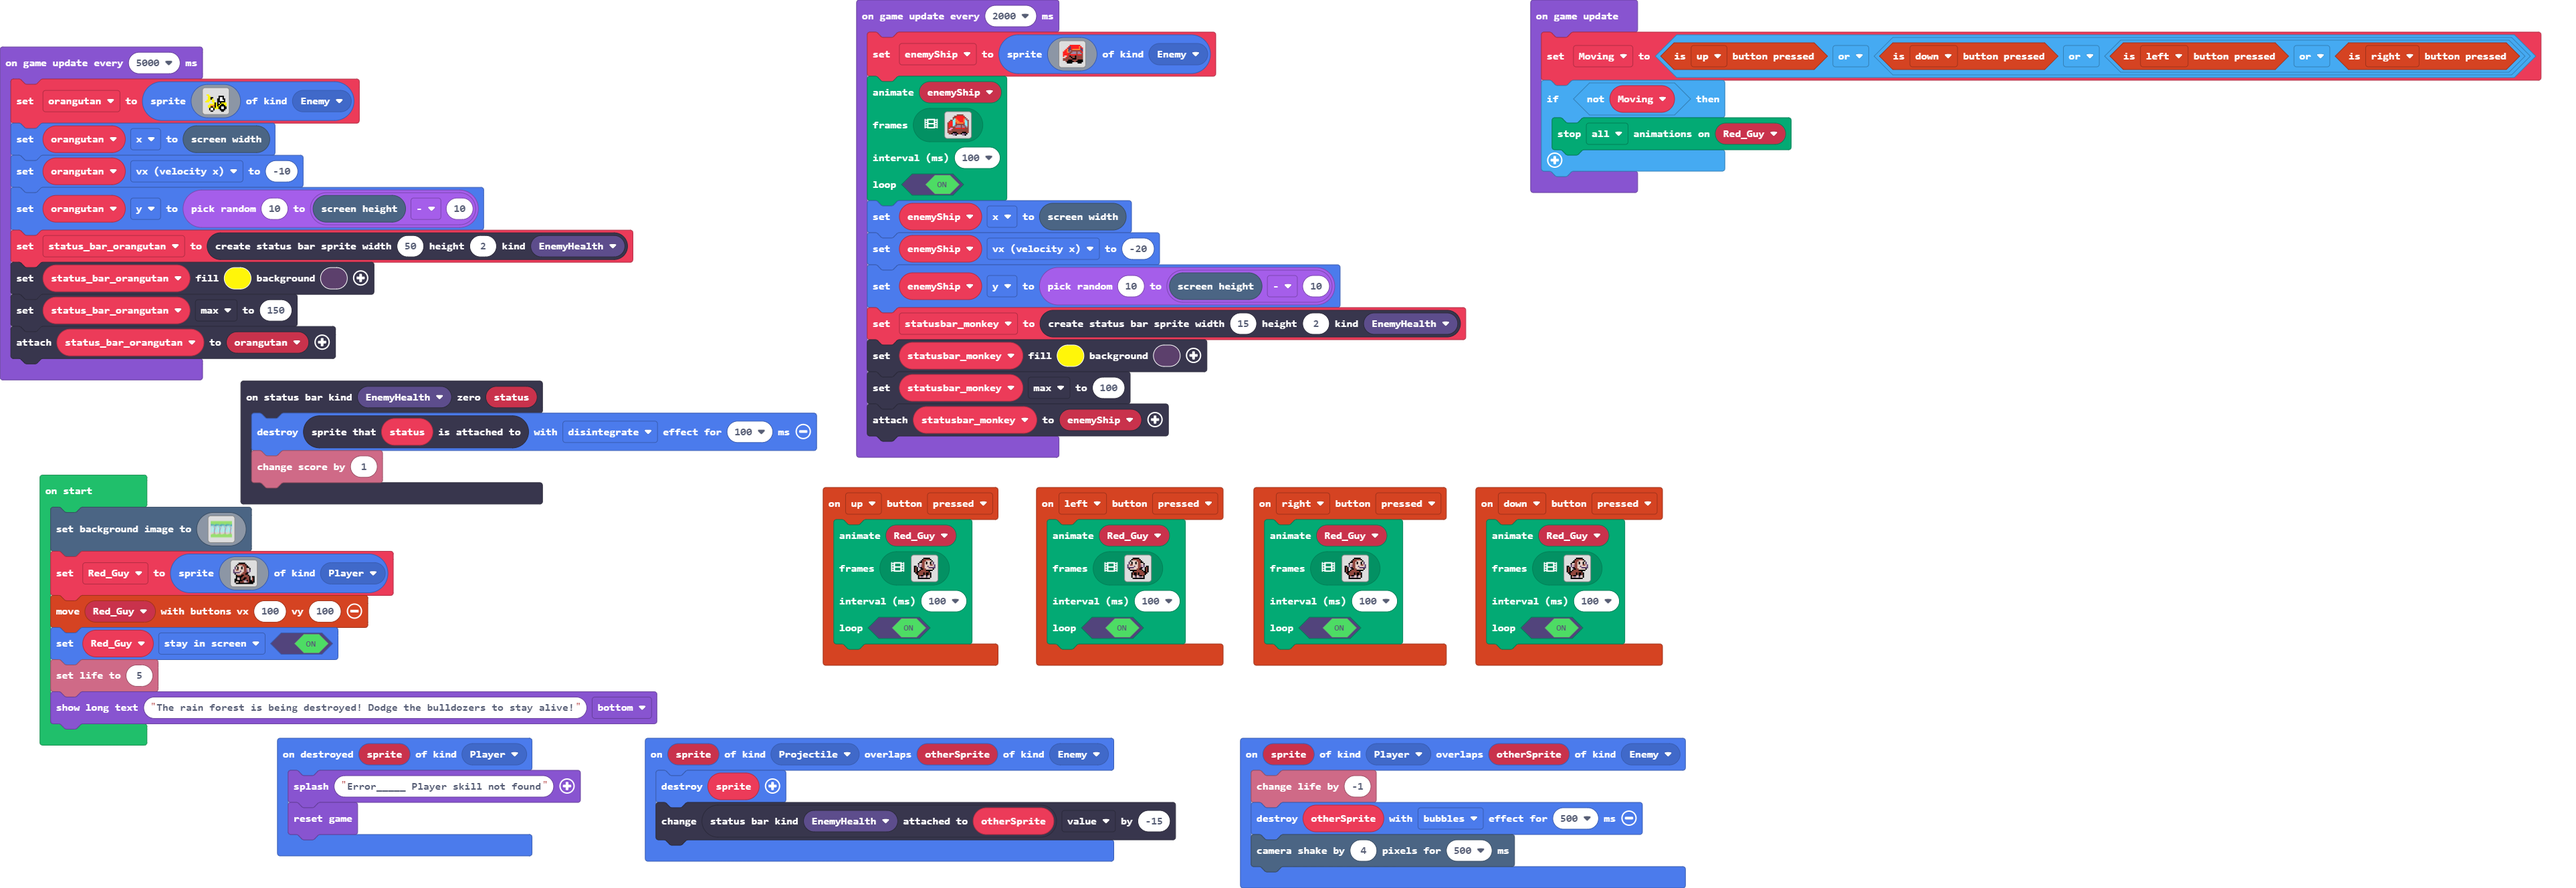
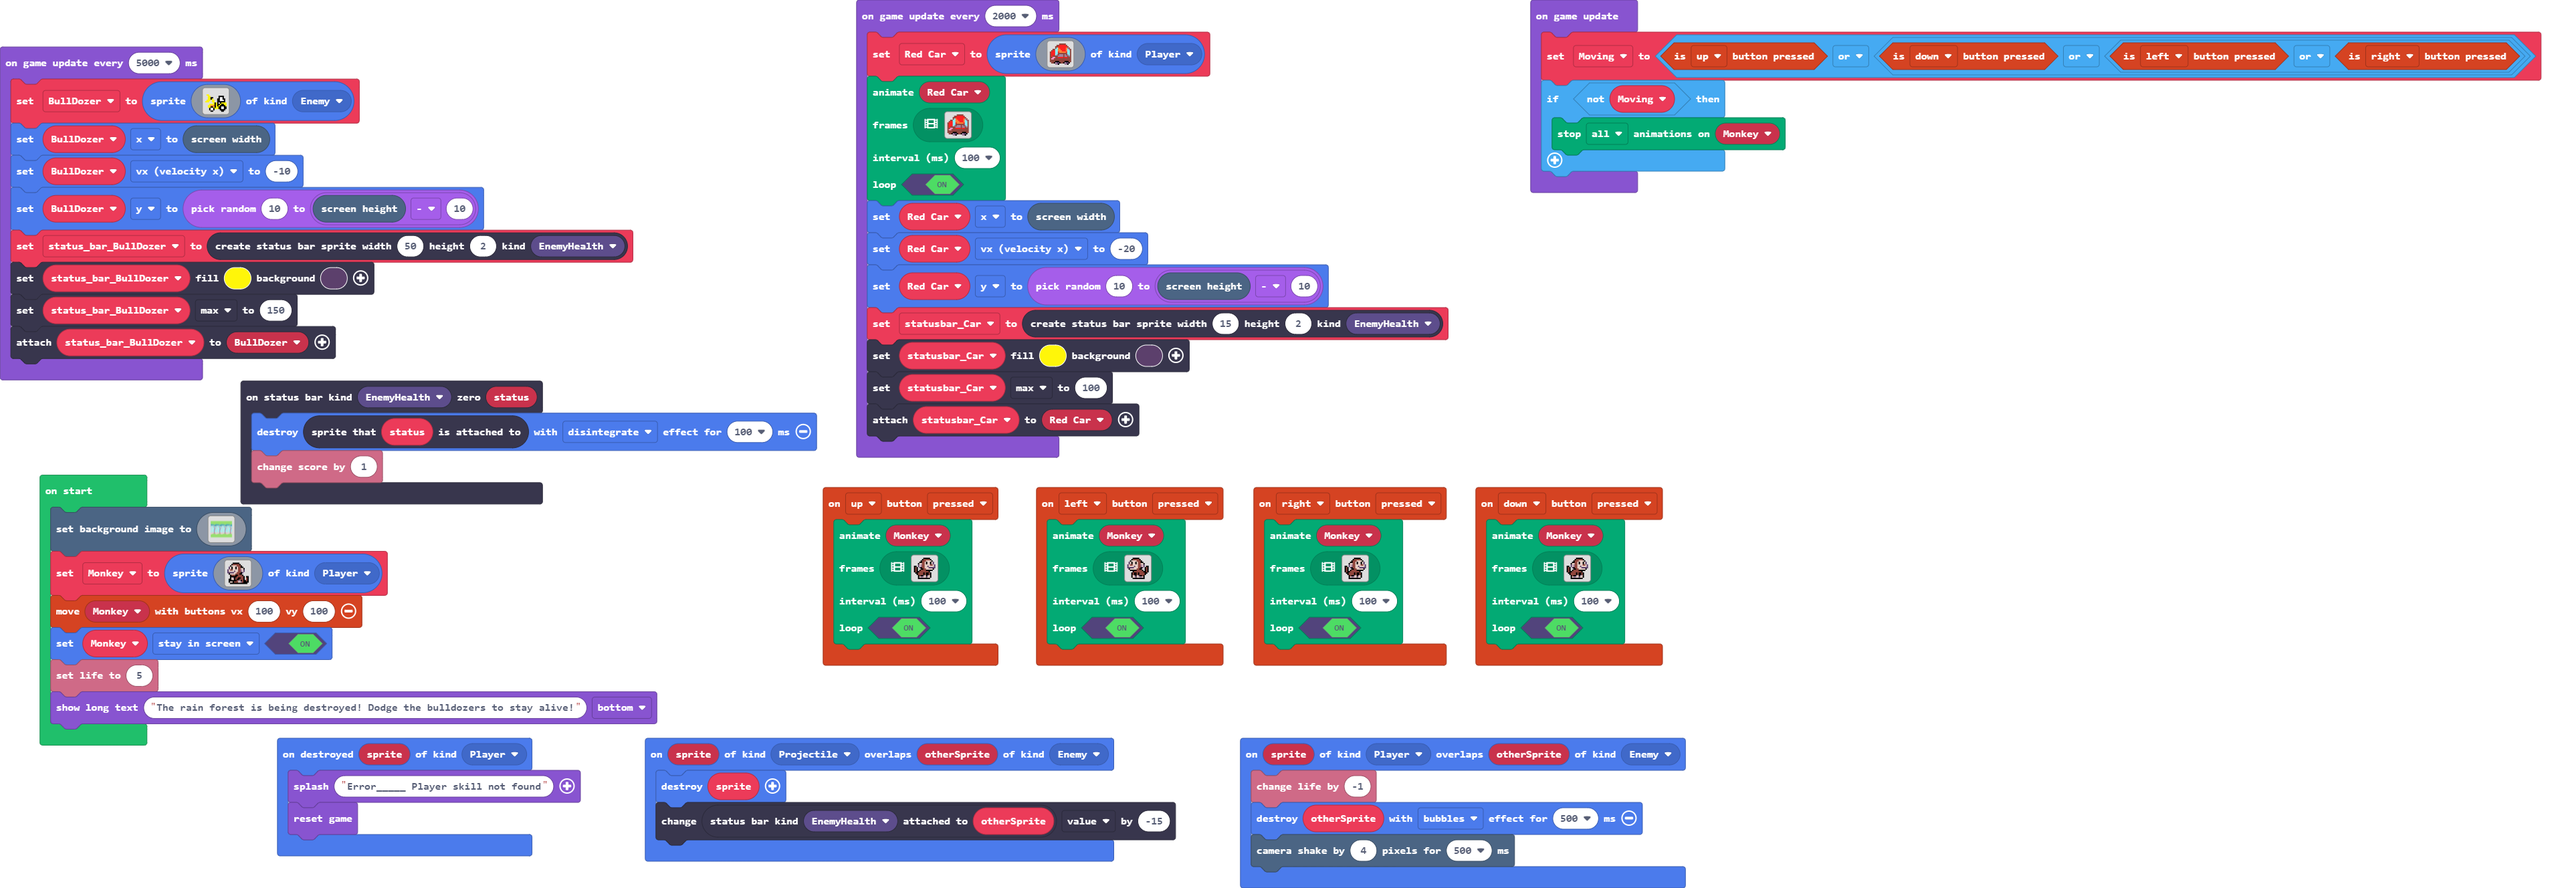
Update main.blocks, main.ts

diff --git a/main.ts b/main.ts
@@ -3,7 +3,7 @@ namespace SpriteKind {
 }
 controller.up.onEvent(ControllerButtonEvent.Pressed, function () {
     animation.runImageAnimation(
-    Red_Guy,
+    Monkey,
     [img`
         . . . . . . . f f f f f . . . . 
         . . . . . . f e e e e e f . . . 
@@ -96,7 +96,7 @@ controller.up.onEvent(ControllerButtonEvent.Pressed, function () {
 })
 controller.left.onEvent(ControllerButtonEvent.Pressed, function () {
     animation.runImageAnimation(
-    Red_Guy,
+    Monkey,
     [img`
         . . . . f f f f f . . . . . . . 
         . . . f e e e e e f . . . . . . 
@@ -193,7 +193,7 @@ statusbars.onZero(StatusBarKind.EnemyHealth, function (status) {
 })
 controller.right.onEvent(ControllerButtonEvent.Pressed, function () {
     animation.runImageAnimation(
-    Red_Guy,
+    Monkey,
     [img`
         . . . . . . . f f f f f . . . . 
         . . . . . . f e e e e e f . . . 
@@ -286,7 +286,7 @@ controller.right.onEvent(ControllerButtonEvent.Pressed, function () {
 })
 controller.down.onEvent(ControllerButtonEvent.Pressed, function () {
     animation.runImageAnimation(
-    Red_Guy,
+    Monkey,
     [img`
         . . . . . . . f f f f f . . . . 
         . . . . . . f e e e e e f . . . 
@@ -390,12 +390,12 @@ sprites.onOverlap(SpriteKind.Player, SpriteKind.Enemy, function (sprite, otherSp
     otherSprite.destroy(effects.bubbles, 500)
     scene.cameraShake(4, 500)
 })
-let statusbar_monkey: StatusBarSprite = null
-let enemyShip: Sprite = null
-let status_bar_orangutan: StatusBarSprite = null
-let orangutan: Sprite = null
+let statusbar_Car: StatusBarSprite = null
+let Red_Car: Sprite = null
+let status_bar_BullDozer: StatusBarSprite = null
+let BullDozer: Sprite = null
 let Moving = false
-let Red_Guy: Sprite = null
+let Monkey: Sprite = null
 scene.setBackgroundImage(img`
     7777777777777777777777777777777777777777777777777777777777777777777777777777777777777777777777777777777777777777777777777777777777777777777777777777777777777777
     7777777777777777777777777777777777777777777777777777777777777777777777777777777777777777777777777777777777777777777777777777777777777777777777777777777777777777
@@ -518,7 +518,7 @@ scene.setBackgroundImage(img`
     7777777777777777777777777777777777777777777777777777777777777777777777777777777777777777777777777777777777777777777777777777777777777777777777777777777777777777
     7777777777777777777777777777777777777777777777777777777777777777777777777777777777777777777777777777777777777777777777777777777777777777777777777777777777777777
     `)
-Red_Guy = sprites.create(img`
+Monkey = sprites.create(img`
     . . . . f f f f f . . . . . . . 
     . . . f e e e e e f . . . . . . 
     . . f d d d d e e e f . . . . . 
@@ -536,18 +536,18 @@ Red_Guy = sprites.create(img`
     . f d d f e e e d d b e f f f f 
     . . f f f f f f f f f f f f f . 
     `, SpriteKind.Player)
-controller.moveSprite(Red_Guy, 100, 100)
-Red_Guy.setFlag(SpriteFlag.StayInScreen, true)
+controller.moveSprite(Monkey, 100, 100)
+Monkey.setFlag(SpriteFlag.StayInScreen, true)
 info.setLife(5)
 game.showLongText("The rain forest is being destroyed! Dodge the bulldozers to stay alive!", DialogLayout.Bottom)
 game.onUpdate(function () {
     Moving = controller.up.isPressed() || (controller.down.isPressed() || (controller.left.isPressed() || controller.right.isPressed()))
     if (!(Moving)) {
-        animation.stopAnimation(animation.AnimationTypes.All, Red_Guy)
+        animation.stopAnimation(animation.AnimationTypes.All, Monkey)
     }
 })
 game.onUpdateInterval(5000, function () {
-    orangutan = sprites.create(img`
+    BullDozer = sprites.create(img`
         . . . . . . . . . . . . . . . . 
         . . . . . . . . . . . . . . . . 
         . . . . . . . . . . . . . . . . 
@@ -565,35 +565,35 @@ game.onUpdateInterval(5000, function () {
         . . . f 1 1 f . . . . f f f f . 
         . . . . f f . . . . . . f f . . 
         `, SpriteKind.Enemy)
-    orangutan.x = scene.screenWidth()
-    orangutan.vx = -10
-    orangutan.y = randint(10, scene.screenHeight() - 10)
-    status_bar_orangutan = statusbars.create(50, 2, StatusBarKind.EnemyHealth)
-    status_bar_orangutan.setColor(5, 12)
-    status_bar_orangutan.max = 150
-    status_bar_orangutan.attachToSprite(orangutan)
+    BullDozer.x = scene.screenWidth()
+    BullDozer.vx = -10
+    BullDozer.y = randint(10, scene.screenHeight() - 10)
+    status_bar_BullDozer = statusbars.create(50, 2, StatusBarKind.EnemyHealth)
+    status_bar_BullDozer.setColor(5, 12)
+    status_bar_BullDozer.max = 150
+    status_bar_BullDozer.attachToSprite(BullDozer)
 })
 game.onUpdateInterval(2000, function () {
-    enemyShip = sprites.create(img`
-        . . . . . . . . . . . . . . . . 
-        . . . . . . 2 2 2 2 2 2 2 2 . . 
-        . . . . . 2 c 2 2 2 2 2 2 4 2 . 
-        . . . . 2 c c 2 2 2 2 2 2 4 c 2 
-        . . d 2 4 c c 2 4 4 4 4 4 4 c c 
-        . d 2 2 4 c b e e e e e e e 2 c 
-        . 2 2 2 4 b e e b b b e b b e 2 
-        . 2 2 2 2 2 e b b b b e b b b e 
-        . 2 2 2 2 e 2 2 2 2 2 e 2 2 2 e 
-        . 2 d d 2 e f e e e f e e e e e 
-        . d d 2 e e e f e e f e e e e e 
-        . e e e e e e e f f f e e e e e 
-        . e e e e f f f e e e e f f f f 
-        . . . e f f f f f e e f f f f f 
-        . . . . f f f f . . . . f f f . 
-        . . . . . . . . . . . . . . . . 
-        `, SpriteKind.Enemy)
+    Red_Car = sprites.create(img`
+        . . . . . . . e e e e e . . . . 
+        . . . . . e e 2 2 2 2 2 e . . . 
+        . . . . e e 2 2 2 2 2 2 2 e . . 
+        . . . . e 9 4 2 2 2 2 2 4 b e . 
+        . . e e 9 9 4 4 2 2 2 2 4 9 b e 
+        . e 2 2 9 9 4 4 4 2 2 2 4 9 9 e 
+        e 2 2 2 9 9 2 4 4 4 4 4 2 9 9 e 
+        e 2 2 2 9 9 e e e e e e e 9 9 e 
+        e 2 2 2 9 b e b b b e b e b 9 e 
+        e 2 e e e e b b b b e b b e b e 
+        e e 3 3 e e 2 2 2 2 e 2 2 e e e 
+        e 3 3 e e e e e e e e e e e e e 
+        e e e e e e e e e e e e e e e e 
+        e e e e f f f e e e e f f f e e 
+        . e e f b c c f e e f b c c f . 
+        . . . . b b f . . . . b b f . . 
+        `, SpriteKind.Player)
     animation.runImageAnimation(
-    enemyShip,
+    Red_Car,
     [img`
         . . . . . . . e e e e e . . . . 
         . . . . . e e 2 2 2 2 2 e . . . 
@@ -666,11 +666,11 @@ game.onUpdateInterval(2000, function () {
     100,
     true
     )
-    enemyShip.x = scene.screenWidth()
-    enemyShip.vx = -20
-    enemyShip.y = randint(10, scene.screenHeight() - 10)
-    statusbar_monkey = statusbars.create(15, 2, StatusBarKind.EnemyHealth)
-    statusbar_monkey.setColor(5, 12)
-    statusbar_monkey.max = 100
-    statusbar_monkey.attachToSprite(enemyShip)
+    Red_Car.x = scene.screenWidth()
+    Red_Car.vx = -20
+    Red_Car.y = randint(10, scene.screenHeight() - 10)
+    statusbar_Car = statusbars.create(15, 2, StatusBarKind.EnemyHealth)
+    statusbar_Car.setColor(5, 12)
+    statusbar_Car.max = 100
+    statusbar_Car.attachToSprite(Red_Car)
 })
